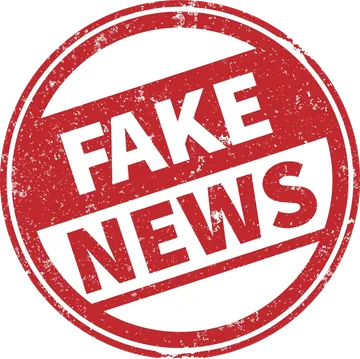
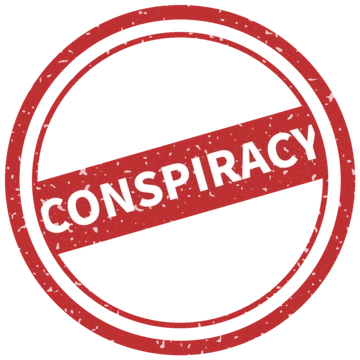
פנקס בדיקת האמינות: חותמת CONSPIRACY במקום FAKE NEWS
Claude-Session: https://claude.ai/code/session_01BDkU3ccTqS2EymX7j7frCe

diff --git a/app/credibility-notebook-sw.js b/app/credibility-notebook-sw.js
@@ -1,5 +1,5 @@
 // Offline cache for the credibility notebook only (registered with scope "./credibility-notebook").
-const CACHE = 'credibility-notebook-v16';
+const CACHE = 'credibility-notebook-v17';
 const FILES = ['credibility-notebook.html', 'credibility-notebook.webmanifest', 'assets/credibility-notebook/icon-192.png', 'assets/credibility-notebook/icon-512.png', 'assets/credibility-notebook/photo.webp', 'assets/credibility-notebook/stamp.webp', 'assets/credibility-notebook/check.webp', 'assets/credibility-notebook/reader.webp', 'assets/credibility-notebook/laptop.webp', 'assets/credibility-notebook/evidence.webp', 'assets/credibility-notebook/fonts/frank-ruhl-libre-hebrew-300-normal.woff2', 'assets/credibility-notebook/fonts/frank-ruhl-libre-latin-300-normal.woff2', 'assets/credibility-notebook/fonts/frank-ruhl-libre-hebrew-500-normal.woff2', 'assets/credibility-notebook/fonts/frank-ruhl-libre-latin-500-normal.woff2', 'assets/credibility-notebook/fonts/rubik-hebrew-300-normal.woff2', 'assets/credibility-notebook/fonts/rubik-latin-300-normal.woff2', 'assets/credibility-notebook/fonts/rubik-hebrew-400-normal.woff2', 'assets/credibility-notebook/fonts/rubik-latin-400-normal.woff2', 'assets/credibility-notebook/fonts/rubik-hebrew-500-normal.woff2', 'assets/credibility-notebook/fonts/rubik-latin-500-normal.woff2'];
 self.addEventListener('install', e => {
   e.waitUntil(caches.open(CACHE).then(c => c.addAll(FILES)).then(() => self.skipWaiting()));

diff --git a/CLAUDE.md b/CLAUDE.md
@@ -800,6 +800,6 @@
 - **הסכמה למחקר** (17/11/2026: "יש לחתום על הסכמה אבל לא לכתוב במצגת שזה לבחירה - המנחות יפתרו בעיות נקודתיות במידת הצורך"): בפתיחת צוות כל משתתף/ת חותם/ת (תיבת סימון "קראתי, ואני מסכים/ה..."), בלי אפשרות "רק ללמידה" ובלי נוסח שאומר שאפשר לא להסכים. "רק ללמידה" הוא חריג שרק המנחה מסמנת, בחלון הצוות ("חריג בהסכמה למחקר", `f.teamEdit`), והצוות לא יכול לשנות אותו (`members(..., byFac)`). העבודה של מי שסומן/ה נשארת בכלי ולא נכנסת לייצוא.
 - **המרצות:** הרשאה `credibility`, וגם כל מי שיש לו/ה `dilemma` (איבנה ועינת). כיתות עם QR, קישור לגירסה לסטודנטיות.ים של הכיתה, צוותים ועבודתם, ציון לפי המחוון, **ממצאים** (ממוצעים, הצוות מול ה־AI, הצלבה, שינוי בעמדה, בדיקות לקריאה לעומק, עם הסבר לכל מדד), ייצוא JSON ו־CSV רק של מי שהסכים/ה. שותפות בקוד שותפות.
 - **גירסה לסטודנטיות.ים** (17/11/2026: "השם פנקס כיס לא מתאים - תכתוב: גירסה לסטודנטיות.ים", בכתיב שלה): `credibility-pocket.html` (ציבורי; `?c=` מכוון ישר למרחב הכיתה).
-- **פנקס לנייד** (24/11/2026: "הכן קובץ כמו פנקס... יהיה בו רק המודל ותהליך אימות מקור. לא יהיה מנוע האימות כי זה עולה כסף - אלא אם תאפשר לכל אחת לחבר את הפנקס כפרומט לAI שלה"): `credibility-notebook.html`, ציבורי ובלי מודל: המחוון 1–5, ארבעת שלבי הבדיקה לבדיקה אישית (קריאה לרוחב ו-SIFT), 10 השאלות, ו"העתקת ההנחיה ל־AI" שמדביקים ב־AI של הסטודנט/ית ובחשבון שלו/ה (קודם הציון שלי, אחר כך ציון AI, פריטי מידע עד "אין לי עוד מידע", הערכה חוזרת ומשוב על התהליך). הכול בתוך הקובץ, כדי ש"הורדת הפנקס כקובץ" תעבוד בלי אינטרנט; התקנה לנייד (`credibility-notebook.webmanifest`, `credibility-notebook-sw.js`). הנוסח של המחוון והשאלות זהה ל-`credibility-model.js`: שינוי שם מחייב שינוי גם בפנקס. קישור מהכלי, מהגירסה לסטודנטיות.ים וממסך המרצות. **העיצוב: עדין וצעיר** (24/11/2026: "עצב באופן מקורי עם האיורים מהמצגת, עם צבעי המצגת, עם שמות החוקרות ופרטים ליצירת קשר"; "בסגנון צעיר, מושך, דינאמי ואלגנטי"; "העיצוב גס ומגושם - ביקשתי אלגנטי וצעיר"): רקע לבן והרבה אוויר, כותרות ב-Frank Ruhl Libre דק וגוף ב-Rubik 300, שמורים באתר (`assets/credibility-notebook/fonts/`, OFL) ונכנסים לקובץ שמורידים; קווים דקים, צבעי המצגת כנקודות צבע ולא כגושים; בפתיח התמונה שיעל בחרה (24/11/2026: "זו התמונה שתהיה בעמוד הכניסה ועליה החותמת בגדול - חצי על התמונה וחצי על הרקע. שני גופנים"): אישה שבודקת ידיעה בטלפון (`photo.webp`, מתוך ה-PDF "איורים לברור דילמות"), והחותמת האדומה (`stamp.webp`) גדולה, חצי על התמונה וחצי על הרקע; בראש "הבדיקה בארבעה שלבים" התמונה של הילד עם אף ארוך ועיתון "FAKE NEWS" (`check.webp`, 24/11/2026: "החלף את התמונה בבדיקה - זו יותר מתאימה"); בראש "חמש רמות של אמינות" מחשב עם "FAKE NEWS" (`laptop.webp`), בראש "10 שאלות לבדיקה עצמית" ילד שקורא בטלפון (`reader.webp`; 24/11/2026: "אני רוצה לשנות את התמונה הזאת", במקום תמונת הילדים עם הטאבלט), ובראש "בודקים מקור עם ה־AI" מעטפה "EVIDENCE" (`evidence.webp`; 24/11/2026: "הוסף את התמונות האלה"); בכל הפנקס רק שני גופנים; ארבעת השלבים כל אחד בצבע משלו ("כל שלב יהיה מודגש בצבע"). **בלי מלל שלא ביקשה** (24/11/2026: "הסר - אל תוסיף מלל מיוזמתך"): בלי תוויות מעל הכותרות, בלי שיחה לדוגמה ובלי משפט פתיחה לחוקרות. **בלי השם Begood בפנקס** (24/11/2026: "אל תזכיר את בי גוד - כן תן את פרטי האתר"): רק be-good.co.il, ואצל יעל "פיתוח · חוסן, קהילה, חינוך". החוקרות עם טלפון ומייל: איבנה (האקדמית גורדון, ratnere@gmail.com), עינת ויעל. התחתית רק כתובת האתר ("חוזר על עצמו יותר מידי פעמים"). **ההנחיה ל־AI** גלויה במלואה עם העתקה, גם בגירסה לסטודנטיות.ים (`#ai`); מקור הנוסח: `AI_PROMPT` ב-`credibility-model.js`, וזהה ל-`PROMPT` בפנקס (בדיקה ב-`credibility.test.mjs`). שינוי בעיצוב: מעלים את `CACHE` ב-`credibility-notebook-sw.js`.
+- **פנקס לנייד** (24/11/2026: "הכן קובץ כמו פנקס... יהיה בו רק המודל ותהליך אימות מקור. לא יהיה מנוע האימות כי זה עולה כסף - אלא אם תאפשר לכל אחת לחבר את הפנקס כפרומט לAI שלה"): `credibility-notebook.html`, ציבורי ובלי מודל: המחוון 1–5, ארבעת שלבי הבדיקה לבדיקה אישית (קריאה לרוחב ו-SIFT), 10 השאלות, ו"העתקת ההנחיה ל־AI" שמדביקים ב־AI של הסטודנט/ית ובחשבון שלו/ה (קודם הציון שלי, אחר כך ציון AI, פריטי מידע עד "אין לי עוד מידע", הערכה חוזרת ומשוב על התהליך). הכול בתוך הקובץ, כדי ש"הורדת הפנקס כקובץ" תעבוד בלי אינטרנט; התקנה לנייד (`credibility-notebook.webmanifest`, `credibility-notebook-sw.js`). הנוסח של המחוון והשאלות זהה ל-`credibility-model.js`: שינוי שם מחייב שינוי גם בפנקס. קישור מהכלי, מהגירסה לסטודנטיות.ים וממסך המרצות. **העיצוב: עדין וצעיר** (24/11/2026: "עצב באופן מקורי עם האיורים מהמצגת, עם צבעי המצגת, עם שמות החוקרות ופרטים ליצירת קשר"; "בסגנון צעיר, מושך, דינאמי ואלגנטי"; "העיצוב גס ומגושם - ביקשתי אלגנטי וצעיר"): רקע לבן והרבה אוויר, כותרות ב-Frank Ruhl Libre דק וגוף ב-Rubik 300, שמורים באתר (`assets/credibility-notebook/fonts/`, OFL) ונכנסים לקובץ שמורידים; קווים דקים, צבעי המצגת כנקודות צבע ולא כגושים; בפתיח התמונה שיעל בחרה (24/11/2026: "זו התמונה שתהיה בעמוד הכניסה ועליה החותמת בגדול - חצי על התמונה וחצי על הרקע. שני גופנים"): אישה שבודקת ידיעה בטלפון (`photo.webp`, מתוך ה-PDF "איורים לברור דילמות"), והחותמת האדומה "CONSPIRACY" (`stamp.webp`; 24/11/2026: "את החותמת של פייק ניוז תחליף בחותמת של קונספירציות") גדולה, חצי על התמונה וחצי על הרקע; בראש "הבדיקה בארבעה שלבים" התמונה של הילד עם אף ארוך ועיתון "FAKE NEWS" (`check.webp`, 24/11/2026: "החלף את התמונה בבדיקה - זו יותר מתאימה"); בראש "חמש רמות של אמינות" מחשב עם "FAKE NEWS" (`laptop.webp`), בראש "10 שאלות לבדיקה עצמית" ילד שקורא בטלפון (`reader.webp`; 24/11/2026: "אני רוצה לשנות את התמונה הזאת", במקום תמונת הילדים עם הטאבלט), ובראש "בודקים מקור עם ה־AI" מעטפה "EVIDENCE" (`evidence.webp`; 24/11/2026: "הוסף את התמונות האלה"); בכל הפנקס רק שני גופנים; ארבעת השלבים כל אחד בצבע משלו ("כל שלב יהיה מודגש בצבע"). **בלי מלל שלא ביקשה** (24/11/2026: "הסר - אל תוסיף מלל מיוזמתך"): בלי תוויות מעל הכותרות, בלי שיחה לדוגמה ובלי משפט פתיחה לחוקרות. **בלי השם Begood בפנקס** (24/11/2026: "אל תזכיר את בי גוד - כן תן את פרטי האתר"): רק be-good.co.il, ואצל יעל "פיתוח · חוסן, קהילה, חינוך". החוקרות עם טלפון ומייל: איבנה (האקדמית גורדון, ratnere@gmail.com), עינת ויעל. התחתית רק כתובת האתר ("חוזר על עצמו יותר מידי פעמים"). **ההנחיה ל־AI** גלויה במלואה עם העתקה, גם בגירסה לסטודנטיות.ים (`#ai`); מקור הנוסח: `AI_PROMPT` ב-`credibility-model.js`, וזהה ל-`PROMPT` בפנקס (בדיקה ב-`credibility.test.mjs`). שינוי בעיצוב: מעלים את `CACHE` ב-`credibility-notebook-sw.js`.
 - **מצב בדיקה (7777)** (24/11/2026: "אני רוצה דף כזה גם למחקר הזה - זה פותר הרבה בעיות", כמו `talk-study.html?c=7777`): ב-`credibility-join.html?c=7777` צוות המחקר מקבל/ת בראש הדף "מצב בדיקה (7777): כל המסלול" (`testBar`), כרשימה עם הזחה לפי רמות (24/11/2026: "אני מעדיפה רשימה בה פריט מתחת פריט עם הזחה של רמות"; `.crd-tree`): מפגש 1 (הסכמה ופתיחת צוות · שאלון עמדות ראשוני · בדיקת מקורות, ומתחתיה שלבים 1 עד 4, רק מה שכבר הושג במקור האחרון) · מפגש 2 (שאלון עמדות מסכם ורפלקציה) · בכל שלב (הצוות · המחוון), ו"המסלול כפי שמשתתף/ת רואה אותו" ו"התחלה מחדש מההסכמה" (מוחק את צוות הבדיקה, `f.teamRemove`). הרפלקציה נפתחת מיד בפעילות הבדיקה. רק בפעילות הבדיקה (`sbe.crd.test.<קוד>` בלשונית), בלי איסוף למחקר.
 - **השרת:** `harness/lib/credibility.mjs` (`crdCall`; `cra:`, `crj:`, `crt:`, `crtc:`, `crs:`, `crr:`, `crf:`, `crco:`), צוותים פונים למודל רק מ־`credibility-join.html` כשהפעילות פתוחה (`crdModelGate`). העלאה דרך `/api/access-upload`. בדיקות: `harness/tests/credibility.test.mjs`.
